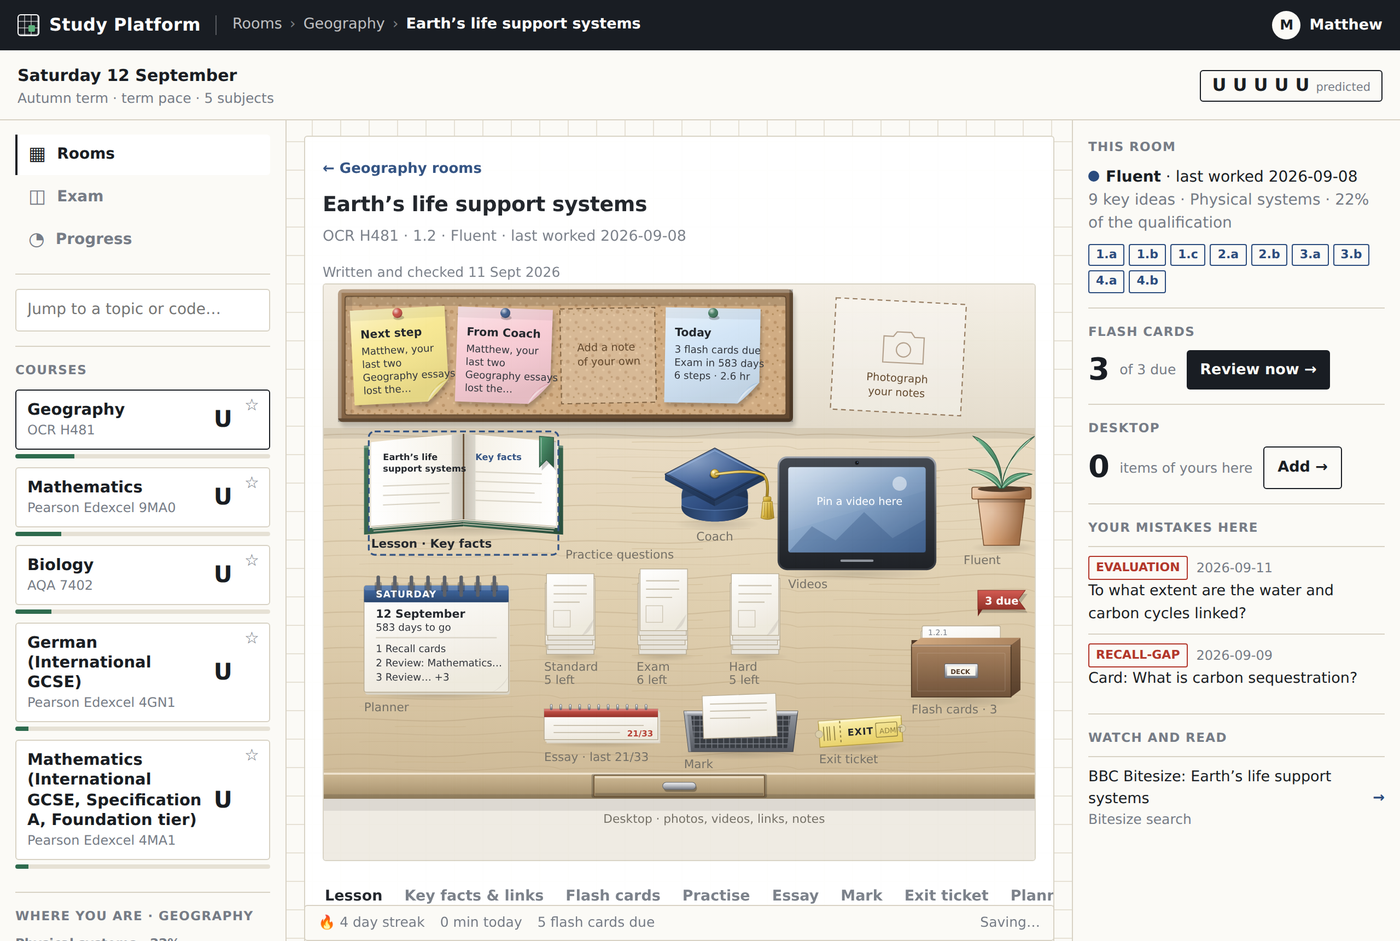
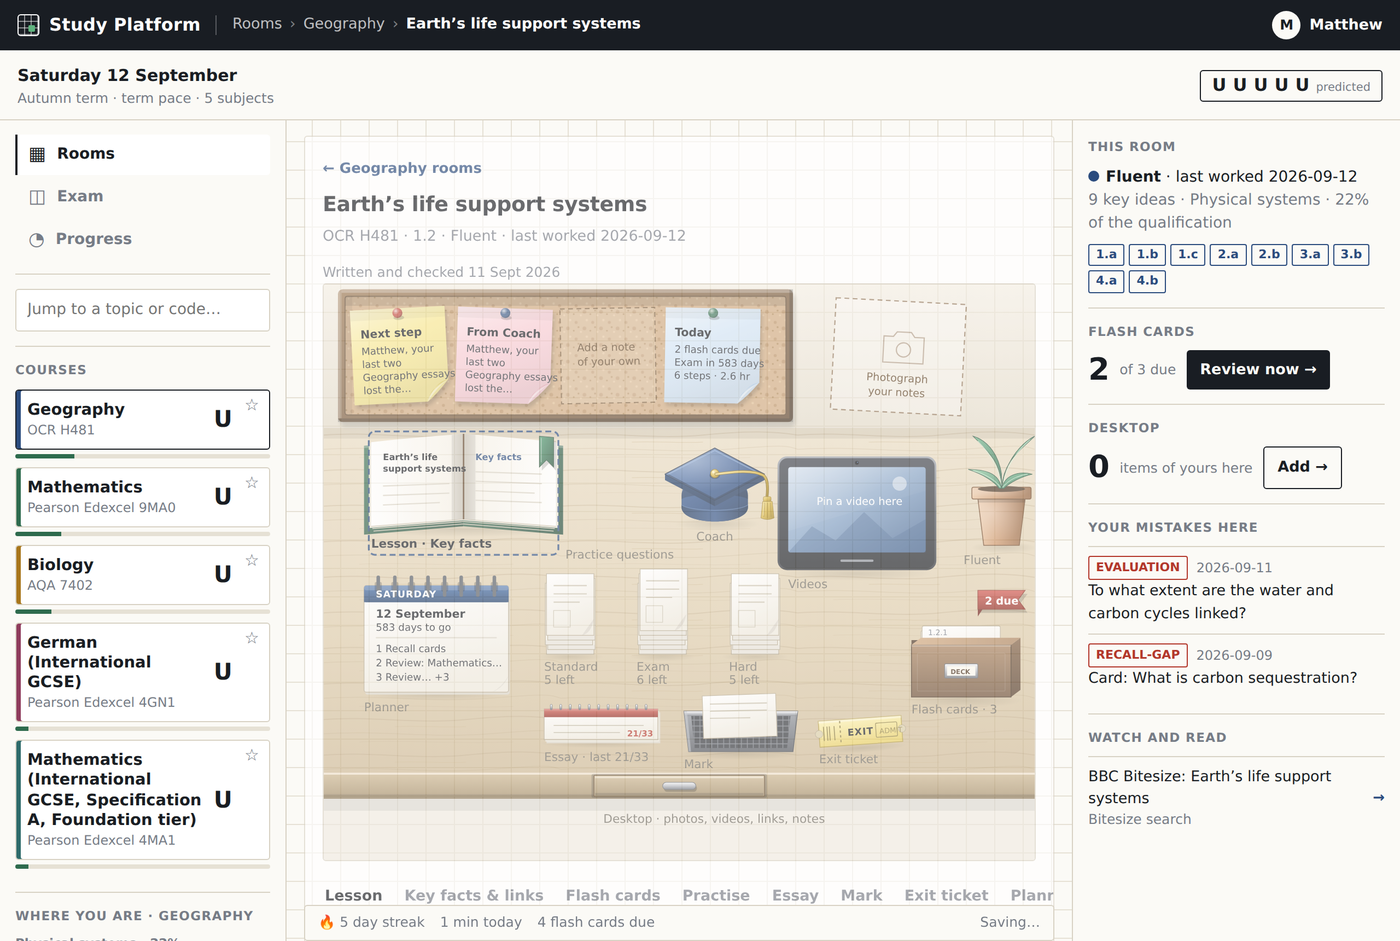
Flash cards are index cards that turn over, colour-coded by subject
Every flash card is now drawn as an index card: a band in the subject's
colour naming the subject, topic and code, ruled lines, the question on
the front and the answer on the back. Tapping the card turns it over in
3D (and back again); Right and Wrong appear once the answer is up. The
room's deck is a grid of mini cards that each turn over. Each subject in
the student's portfolio gets one colour by position, and the course
cards in the left rail carry the same colour as a stripe so the code is
readable at a glance. Tests cover the colour, the turn, the turn-back
animation, the deck grid and the rail stripe; three new proof shots.

Claude-Session: https://claude.ai/code/session_01Mh9bnPxQr2jGMgGjiwAVje

diff --git a/src/template.html b/src/template.html
@@ -75,6 +75,15 @@ let syncState={at:0,serverAt:'',busy:false,err:'',pending:false,timer:null};cons
 let UI={videos:{room:null,items:null,loading:false},subject:null,room:null,station:'lesson',revealed:{},practice:null,essay:null,exit:null,busy:'',err:'',coachBusy:false,coachErr:'',teach:{},setup:{subjects:[]},cards:null,mathsHours:0,drawer:null,jumpQ:'',nudgeBusy:false,desk:{room:null,items:null,loading:false,err:'',unavailable:false,filter:'all',q:'',stage:null,playing:{},busy:'',used:0,quota:0},deskAll:null};
 const NUDGE_STATIONS=['lesson','cards','practise','essay','exit','desktop'];
 const coachName=()=>String(S&&S.setup&&S.setup.coachName||'').trim().slice(0,24)||'Coach';
+/* one colour per subject in the student's portfolio, by position, so the same course is always the same colour */
+const SUBJECT_COLOURS=['#2B4C7E','#2E6B4E','#A8761B','#8E3B5C','#2E6B6B','#B3372B','#5C5B8E','#7A6A2E'];
+function subjectColour(specId){const i=S&&S.setup?S.setup.subjects.findIndex(x=>x.specId===specId):-1;return SUBJECT_COLOURS[(i<0?0:i)%SUBJECT_COLOURS.length];}
+/* an index card that turns over: front is the question, back the answer; `key` is the UI.revealed key that says which face is up */
+function flashCardHtml(c,key,opts={}){const {spec,topic}=nodeTopic(c.node);const up=!!UI.revealed[key];const anim=UI.fcAnim===key?' unflip':'';UI.fcAnim=null;
+  return `<button type="button" class="fc${opts.mini?' mini':''}${up?' flipped':anim}" data-flip="${esc(key)}" style="--sc:${subjectColour(spec.id)}" aria-pressed="${up}" aria-label="${up?'Turn back to the question':'Turn over for the answer'}"><div class="fc-inner">
+   <div class="fc-face fc-front"><div class="fc-band"><span>${esc(spec.subject)}</span><span class="fc-topic">${esc(topic.name)}${c.code?` · ${esc(c.code)}`:''}</span></div><div class="fc-body">${esc(c.front)}</div><div class="fc-hint">Turn over</div></div>
+   <div class="fc-face fc-back"><div class="fc-band"><span>Answer</span><span class="fc-topic">${esc(spec.subject)}</span></div><div class="fc-body">${esc(c.back)}${c.open?'<span class="fc-open">Any sound example scores — these are some of the acceptable answers. Mark yourself right if yours is as specific and as correct.</span>':''}</div><div class="fc-hint">Turn back</div></div>
+  </div></button>`;}
 const DESK_ON=true; /* the drawn desk at the top of every room; false leaves the station strip alone */
 const specById=id=>SPECS[id];
 /* A topic's id is shown as a code only when it is one — "1.2", "P3", "10.1.1", a section letter — and the name does not already
@@ -223,8 +232,8 @@ function renderToday(){const el=document.getElementById('v-today');if(!S)return;
    ${UI.retest?retestHtml():''}${UI.cards?renderCards(due):''}${saveErr?`<p class="err">${esc(saveErr)}</p>`:''}`;renderRails();}
 function renderCards(due){if(!due.length){UI.cards=null;return '<div class="good">Cards cleared for today.</div>';}const c=due[0];const id=Object.keys(S.cards).find(k=>S.cards[k]===c);
   return `<div class="panel"><h2>Recall · ${due.length} due</h2><p class="sub">${esc(nodeTopic(c.node).spec.subject)} — ${esc(nodeTopic(c.node).topic.name)}<span class="cite">${esc(c.code||'')}</span></p>
-   <div class="card">${esc(c.front)}${UI.revealed['card']?`<div class="back">${esc(c.back)}</div>${c.open?'<div class="fine">Any sound example scores — these are some of the acceptable answers. Mark yourself right if yours is as specific and as correct.</div>':''}`:''}</div>
-   ${UI.revealed['card']?`<div class="row"><button class="act ghost small" data-cardres="1" data-card="${esc(id)}">Right</button><button class="act danger small" data-cardres="0" data-card="${esc(id)}">Wrong</button></div>`:`<button class="act" data-reveal="card">Show answer</button>`}</div>`;}
+   ${flashCardHtml(c,'card')}
+   ${UI.revealed['card']?`<div class="row"><button class="act ghost small" data-cardres="1" data-card="${esc(id)}">Right</button><button class="act danger small" data-cardres="0" data-card="${esc(id)}">Wrong</button></div>`:`<button class="act" data-reveal="card">Turn the card over</button>`}</div>`;}
 
 /* ============ ROOMS ============ */
 function renderRooms(){const el=document.getElementById('v-rooms');if(!S)return;renderWhere();if(UI.room)return renderRoom(el);
@@ -266,7 +275,7 @@ function stLesson(spec,topic){const AU=authoredFor(spec.id,topic.id);if(AU&&AU.l
 function stCards(spec,topic){const mine=Object.entries(S.cards).filter(([,c])=>c.node===UI.room);const due=mine.filter(([,c])=>!c.due||c.due<=TODAY);const AU=authoredFor(spec.id,topic.id);const kitCards=AU&&AU.cards&&AU.cards.length&&!(S.kitCards||{})[UI.room]?AU.cards:null;
   return `${kitCards?`<div class="good">This room has ${kitCards.length} checked flash cards, written from the specification and checked.<button class="act small" data-kitcards="1" style="margin-top:10px">Add this room’s ${kitCards.length} checked cards</button></div>`:''}<p class="sub">${mine.length?`${mine.length} flash cards for this room, ${due.length} due today. They are scheduled by spacing: right doubles the gap, wrong resets it.`:'No flash cards yet. They\u2019re generated from the key ideas and the required case studies, then scheduled by spacing.'}</p>
    ${mine.length?`<button class="act" data-cards="1">Review the due cards</button>`:''}<button class="act ${mine.length?'ghost':''}" data-genkind="cards" ${UI.busy?'disabled':''}>${mine.length?'Generate 10 more cards':'Generate flash cards for this room'}</button>
-   ${mine.length?`<p class="sub" style="margin-top:14px">The deck. Answers stay hidden until you ask — try each one in your head first.</p>`:''}${mine.slice(0,40).map(([id,c])=>`<div class="formula"><span class="cite" style="margin:0 6px 0 0">${esc(c.code)}</span>${esc(c.front)} ${UI.revealed['cd'+id]?`<span style="color:var(--pencil)">— ${esc(c.back)}</span>${c.open?'<span class="fine" style="display:block;margin-top:4px">Any sound example scores — these are some of the acceptable answers.</span>':''}`:`<button class="act ghost small" data-reveal="cd${esc(id)}" style="margin:0 0 0 8px;padding:2px 8px;font-size:12px">Show answer</button>`}</div>`).join('')}`;}
+   ${mine.length?`<p class="sub" style="margin-top:14px">The deck. Answers are on the back — try each one in your head, then turn the card over.</p>`:''}${mine.length?`<div class="fc-deck">${mine.slice(0,40).map(([id,c])=>flashCardHtml(c,'cd'+id,{mini:true})).join('')}</div>`:''}`;}
 function pickAuthored(room,stateName,k){const want=stateName==='Secure'?[3,2]:stateName==='Fluent'?[2,3,1]:[1,2];const pool=[];for(const d of want)pool.push(...room.questions.filter(q=>q.d===d));const seen=new Set(),out=[];for(const q of pool){if(!seen.has(q.q)){seen.add(q.q);out.push(q);}if(out.length>=k)break;}return out;}
 function stPractise(spec,topic,n){const AU=authoredFor(spec.id,topic.id);
   if(AU&&!UI.useGenerated){if(!UI.apr||UI.apr.room!==UI.room){UI.apr={room:UI.room,qs:pickAuthored(AU.room,n.state,4),i:0,results:[],hints:{}};}const P=UI.apr;
@@ -544,7 +553,7 @@ function renderRails(){const on=railView();try{if(document.body&&document.body.c
 function courseOrder(){const pinned=S.pinned||{};return S.setup.subjects.slice().sort((a,b)=>(pinned[b.specId]?1:0)-(pinned[a.specId]?1:0));}
 function activeSpec(){return specById((UI.subject&&S.setup.subjects.some(x=>x.specId===UI.subject))?UI.subject:S.setup.subjects[0].specId);}
 function renderRailL(L){const sp=activeSpec();const due=new Set(dueForReview(S,TODAY));
-  const cards=courseOrder().map(sub=>{const c=specById(sub.specId);const p=predictSubject(S,c,sub.options);const pin=!!(S.pinned&&S.pinned[c.id]);return `<div class="ccard${c.id===sp.id?' on':''}"><button class="cmain" data-course="${esc(c.id)}"><b>${esc(c.subject)}</b><small>${esc(c.board)} ${esc(c.code)}</small><span class="cg">${esc(p.grade)}</span></button><div class="bar mini"><i style="width:${p.pct}%"></i></div><button class="pin" data-pin="${esc(c.id)}" aria-pressed="${pin}" title="${pin?'Unpin':'Pin to the top'}">${pin?'★':'☆'}</button></div>`;}).join('');
+  const cards=courseOrder().map(sub=>{const c=specById(sub.specId);const p=predictSubject(S,c,sub.options);const pin=!!(S.pinned&&S.pinned[c.id]);return `<div class="ccard${c.id===sp.id?' on':''}" style="--sc:${subjectColour(c.id)}"><button class="cmain" data-course="${esc(c.id)}"><b>${esc(c.subject)}</b><small>${esc(c.board)} ${esc(c.code)}</small><span class="cg">${esc(p.grade)}</span></button><div class="bar mini"><i style="width:${p.pct}%"></i></div><button class="pin" data-pin="${esc(c.id)}" aria-pressed="${pin}" title="${pin?'Unpin':'Pin to the top'}">${pin?'★':'☆'}</button></div>`;}).join('');
   const nodes=Object.entries(S.nodes).filter(([,n])=>n.spec===sp.id);
   const tree=sp.components.map(c=>{const mine=nodes.filter(([,n])=>{const t=sp.topics.find(x=>x.id===n.topic);return t&&t.component===c.id;});if(!mine.length)return '';return `<div class="comp"><div class="cname">${esc(c.name)} · ${c.weight}%</div>${mine.map(([id,n])=>{const t=sp.topics.find(x=>x.id===n.topic);const ki=kitInfo(sp.id,t.id);return `<button class="tnode${UI.room===id?' cur':''}" data-open="${esc(id)}" data-st="lesson"><i class="dot" data-s="${n.state}"${due.has(id)?' data-due="1"':''}></i><span>${topicCode(t)?`<small>${esc(topicCode(t))}</small> `:''}${esc(t.name)}${ki&&!ki.at?'<i class="pen" title="Being written">✎</i>':''}</span></button>`;}).join('')}</div>`;}).join('');
   L.innerHTML=`${navHtml('side')}<div class="rblock"><input id="jump" placeholder="Jump to a topic or code…" autocomplete="off" value="${esc(UI.jumpQ||'')}"><div id="jumpOut">${jumpHtml()}</div></div><div class="rblock"><h4>Courses</h4>${cards}</div><div class="rblock"><h4>Where you are · ${esc(sp.subject)}</h4><div class="tree">${tree}</div><div class="legend" style="margin-top:10px"><span><i class="dot" data-s="Unassessed"></i>New</span><span><i class="dot" data-s="Learning"></i>Learning</span><span><i class="dot" data-s="Fluent"></i>Fluent</span><span><i class="dot" data-s="Secure"></i>Secure</span><span><i class="dot" data-due="1"></i>Due</span></div></div>
@@ -953,6 +962,7 @@ document.addEventListener('click',async e=>{let t=e.target;
   if(t.id==='rtStop'){UI.retest=null;renderToday();return;}
   if(t.id==='backRooms'){UI.room=null;renderRooms();return;}
   const stn=t.closest('[data-station]');if(stn){openStation(stn.dataset.station,stn.tagName!=='BUTTON');return;}
+  const fl=t.closest('[data-flip]');if(fl){const k=fl.dataset.flip;const was=!!UI.revealed[k];UI.revealed[k]=!was;if(was)UI.fcAnim=k;if(k==='card')renderToday();else renderRooms();return;}
   const rv=t.closest('[data-reveal]');if(rv){UI.revealed[rv.dataset.reveal]=true;renderAll();return;}
   const lx=t.closest('[data-lxrev]');if(lx){const k='lx'+lx.dataset.lxrev;const AUx=authoredFor(nodeTopic(UI.room).spec.id,nodeTopic(UI.room).topic.id);const ex=AUx&&AUx.lesson&&AUx.lesson.examples[+lx.dataset.lxrev];UI.revealed[k]=Math.max(UI.revealed[k]||0,ex&&!ex.setup?1:0)+1;renderRooms();return;}
   const ax=t.closest('[data-axrev]');if(ax){const k='ax'+ax.dataset.axrev;const AUx=authoredFor(nodeTopic(UI.room).spec.id,nodeTopic(UI.room).topic.id);const ex=AUx&&AUx.room&&AUx.room.examples[+ax.dataset.axrev];UI.revealed[k]=Math.max(UI.revealed[k]||0,ex&&!ex.setup?1:0)+1;renderRooms();return;}

diff --git a/tests/app.test.js b/tests/app.test.js
@@ -143,6 +143,14 @@ const click=async s=>L.click({target:T(s)});const change=async s=>L.change({targ
  await click({dataset:{cards:'1'}});ok('A6 card review shown',/Recall · 10 due/.test(reg['v-today'].innerHTML));
  const cid=Object.keys(G.S.cards)[0];await click({dataset:{reveal:'card'}});await click({dataset:{cardres:'0',card:cid}});ok('A6 wrong card reset and logged',G.S.cards[cid].ease===1&&G.S.errors[0].mode==='RECALL-GAP');
  await click({dataset:{reveal:'card'}});const c2=Object.keys(G.S.cards)[1];await click({dataset:{cardres:'1',card:c2}});ok('A6 right card doubles',G.S.cards[c2].ease===2);
+ const first=G.S.setup.subjects[0].specId;(()=>{G.UI.cards=true;G.UI.revealed.card=false;G.renderToday();const V=reg['v-today'].innerHTML;const geo=G.subjectColour('OCR-H481');
+  ok('F1 the review card is an index card in its subject\u2019s colour, question up',/class="fc" data-flip="card" style="--sc:#[0-9A-F]{6}"/.test(V)&&V.includes('style="--sc:'+geo+'"')&&/fc-front/.test(V)&&/fc-back/.test(V)&&!/class="fc flipped"/.test(V)&&!/data-cardres/.test(V),V.slice(0,300));
+  ok('F1b subject colours follow the portfolio order and differ between subjects',G.subjectColour(first)==='#2B4C7E'&&G.subjectColour(G.S.setup.subjects[1].specId)==='#2E6B4E'&&G.subjectColour(first)!==G.subjectColour(G.S.setup.subjects[1].specId));})();
+ await click({dataset:{flip:'card'}});ok('F2 tapping the card turns it over: answer face up, Right and Wrong offered',G.UI.revealed.card===true&&/class="fc flipped"/.test(reg['v-today'].innerHTML)&&/data-cardres="1"/.test(reg['v-today'].innerHTML));
+ await click({dataset:{flip:'card'}});ok('F3 tapping again turns it back, animated',G.UI.revealed.card===false&&/class="fc unflip"/.test(reg['v-today'].innerHTML)&&!/data-cardres/.test(reg['v-today'].innerHTML));
+ G.renderToday();ok('F3b the turn-back animation runs once',/class="fc" data-flip/.test(reg['v-today'].innerHTML));
+ ok('F4 the course cards in the left rail carry their subject colour stripe',reg['rail-l'].innerHTML.includes('style="--sc:'+G.subjectColour(first)+'"><button class="cmain"'),reg['rail-l'].innerHTML.slice(0,200));
+ G.UI.cards=null;G.renderToday();
  /* practise */
  reply=()=>({content:[{type:'text',text:JSON.stringify({questions:[1,2,3].map(i=>({q:'Explain Q'+i,command:'Explain',marks:8,indicative:['i1','i2'],codes:['1.c']}))})}]});
  G.openRoom(geoRoom,'practise');await click({dataset:{usegen:'1'}});/* 1.2 ships a checked kit; A7 tests the generated set */await click({dataset:{genkind:'questions'}});await sleep(30);
@@ -269,7 +277,7 @@ const click=async s=>L.click({target:T(s)});const change=async s=>L.change({targ
  ok('X2c a worked example shows its setup at once and a cue before each reveal',(()=>{G.UI.station='lesson';G.UI.revealed={};G.renderRooms();const V=reg['v-rooms'].innerHTML;return /class="setup">A student is given the full situation/.test(V)&&/<b>Predict:<\/b> What is the total of the three values\?/.test(V)&&!/The three values are 4, 8 and 12, so the total is 24\.<\/div>/.test(V.replace(/class="stepline hid">[^<]*<\/div>/g,''));})());
  await click({dataset:{lxrev:'0'}});ok('X2c revealing shows the first move and asks the next cue',/stepline ">The three values are 4, 8 and 12/.test(reg['v-rooms'].innerHTML)&&/<b>Predict:<\/b> How do you turn the total into a mean\?/.test(reg['v-rooms'].innerHTML));
  ok('X2c a kit without setups shows its first line at once',(()=>{const AU=G.AUTHORED;const K=G.KITS['OCR-H481|1.2'];const e=K.lesson.examples[1];const saved={setup:e.setup,cues:e.cues};delete e.setup;delete e.cues;G.UI.revealed={};G.renderRooms();const V=reg['v-rooms'].innerHTML;Object.assign(e,saved);return /stepline ">The three values are 4, 8 and 12/.test(V)&&/<b>Predict:<\/b> what the next line will be/.test(V);})());
- ok('X2b the flash-card list keeps answers hidden until asked',(()=>{G.UI.station='cards';G.renderRooms();const V=reg['v-rooms'].innerHTML;const id=Object.keys(G.S.cards).find(k=>G.S.cards[k].node==='OCR-H481|1.2');const c=G.S.cards[id];return /Show answer/.test(V)&&!V.includes('— '+c.back.slice(0,20))&&(()=>{G.UI.revealed['cd'+id]=true;G.renderRooms();return reg['v-rooms'].innerHTML.includes('— '+c.back.slice(0,20));})();})());G.UI.station='practise';G.renderRooms();
+ ok('X2b the deck is a grid of index cards, question up until turned',(()=>{G.UI.station='cards';G.renderRooms();const V=reg['v-rooms'].innerHTML;const id=Object.keys(G.S.cards).find(k=>G.S.cards[k].node==='OCR-H481|1.2');const re=x=>new RegExp('class="fc mini([^"]*)" data-flip="cd'+id.replace(/[|.]/g,'\\$&')+'"').exec(x);const m=re(V);return /class="fc-deck"/.test(V)&&m&&!/flipped/.test(m[1])&&(()=>{G.UI.revealed['cd'+id]=true;G.renderRooms();const m2=re(reg['v-rooms'].innerHTML);return m2&&/flipped/.test(m2[1]);})();})());G.UI.station='practise';G.renderRooms();
  ok('X2d an open card says any sound example scores',(()=>{const id=Object.keys(G.S.cards).find(k=>G.S.cards[k].node==='OCR-H481|1.2');G.S.cards[id].open=true;G.UI.station='cards';G.UI.revealed['cd'+id]=true;G.renderRooms();const V=reg['v-rooms'].innerHTML;delete G.S.cards[id].open;G.UI.station='practise';G.renderRooms();return /Any sound example scores/.test(V);})());
  ok('X2 the open station is marked on the desk itself',/data-station="practise" aria-label="[^"]*" aria-pressed="true"[\s\S]*?class="dsel"/.test(svg())&&(svg().match(/aria-pressed="true"/g)||[]).length===3&&(svg().match(/class="dsel"/g)||[]).length===3,String((svg().match(/aria-pressed="true"/g)||[]).length));
  L.keydown({key:'Enter',target:T({className:'dobj',dataset:{station:'cards'}}),preventDefault(){}});ok('X2 Enter on a focused object opens it',G.UI.station==='cards');

diff --git a/scripts/visual-proof.js b/scripts/visual-proof.js
@@ -150,10 +150,31 @@ const server = http.createServer((req, res) => {
   must(/Next step/.test(await page.locator('#rail-r').textContent()) && /Flash cards due/.test(await page.locator('#rail-r').textContent()) && (await page.locator('#rail-r .ring').count()) === 5, 'right rail on Today: next step, cards due, five progress rings');
   must(/day streak/.test(await page.locator('#status').textContent()) && (await page.locator('#status').isVisible()), 'status strip visible with the streak');
   await snap(page, '6-wide-today', 'Wide screen: left rail (nav, quick-jump, course switcher, topic tree with status dots), centre (today’s session), right rail (tutor-written next step, cards due, progress rings, streak), status strip');
+  await page.click('#rail-r [data-cards]');
+  await page.waitForSelector('#v-today .fc', { timeout: 5000 });
+  await page.locator('#v-today .fc').scrollIntoViewIfNeeded();
+  must((await page.locator('#v-today .fc.flipped').count()) === 0 && /Turn over/.test(await page.locator('#v-today .fc').textContent()), 'flash card review: an index card, question up');
+  const band = await page.locator('#v-today .fc-front .fc-band').evaluate(e => getComputedStyle(e).backgroundColor);
+  const stripe = await page.locator('#rail-l .ccard .cmain').first().evaluate(e => getComputedStyle(e).boxShadow);
+  must(band === 'rgb(43, 76, 126)' && /rgb\(43, 76, 126\)/.test(stripe), `the card wears Geography's colour, the same as the course stripe in the rail (band ${band})`);
+  await snap(page, '20-flash-card-front', 'Flash card review: an index card in the subject’s colour, question up, matching the course’s colour stripe in the left rail');
+  await page.click('#v-today .fc');
+  await page.waitForSelector('#v-today .fc.flipped', { timeout: 5000 });
+  await page.waitForTimeout(700);
+  must((await page.locator('#v-today [data-cardres="1"]').count()) === 1 && (await page.locator('#v-today [data-cardres="0"]').count()) === 1, 'turned over: the answer face is up and Right / Wrong are offered');
+  await snap(page, '21-flash-card-back', 'The same card turned over: the answer on the back, Right and Wrong to mark yourself');
+  await page.click('#v-today [data-cardres="1"]');
   await page.click('#rail-l [data-open="OCR-H481|1.2"]');
   await page.waitForFunction(() => /This room/.test(document.querySelector('#rail-r').textContent), null, { timeout: 10000 });
   must((await page.locator('#rail-l .tnode.cur').count()) === 1 && /Watch and read/.test(await page.locator('#rail-r').textContent()) && (await page.locator('#rail-r a.link').count()) >= 1, 'in a room: the tree marks where you are; the right rail shows this room, its cards, mistakes and links');
   await snap(page, '7-wide-room', 'Inside a room: the tree marks the current topic; the right rail is contextual — state, key-idea codes, cards due here, your mistakes here, watch and read');
+  await page.click('#v-rooms .stations [data-station="cards"]');
+  await page.waitForSelector('#v-rooms .fc-deck .fc.mini', { timeout: 5000 });
+  must((await page.locator('#v-rooms .fc-deck .fc.mini').count()) >= 3, 'the room’s deck is a grid of mini index cards');
+  await page.locator('#v-rooms .fc-deck .fc.mini').nth(1).click();
+  await page.waitForSelector('#v-rooms .fc-deck .fc.mini.flipped', { timeout: 5000 });
+  await page.waitForTimeout(700);
+  await snap(page, '22-room-deck', 'The room’s flash-card deck: mini index cards in the subject’s colour, one turned over');
   await page.fill('#jump', 'stationary');
   await page.waitForSelector('#jumpOut .tnode', { timeout: 5000 });
   must(/Mathematics/.test(await page.locator('#jumpOut').textContent()), 'quick-jump finds a maths topic by a key-idea word');

diff --git a/src/styles.css b/src/styles.css
@@ -148,7 +148,27 @@ body.three{padding-bottom:108px}
 .rblock p{margin:0;font-size:14px;line-height:1.5}
 .rblock .row{margin-top:8px}.rblock .row .act.small{margin:0;flex:0 1 auto}
 .fine{display:block;font-size:12.5px;color:var(--pencil);margin-top:4px;line-height:1.4}
-.ccard{position:relative;margin-bottom:8px}
+.ccard{position:relative;margin-bottom:8px;--sc:var(--ink)}
+.ccard .cmain{box-shadow:inset 4px 0 0 var(--sc)}
+/* flash cards: an index card that turns over */
+.fc{display:block;width:100%;padding:0;margin:10px 0 0;border:0;background:none;font:inherit;color:var(--ink);text-align:left;cursor:pointer;perspective:1200px;--sc:var(--blue)}
+.fc-inner{display:grid;transform-style:preserve-3d;transition:transform .55s cubic-bezier(.4,.1,.2,1)}
+.fc-face{grid-area:1/1;display:flex;flex-direction:column;min-height:230px;background:#fff;border:1.5px solid var(--rule);border-radius:7px;box-shadow:0 1px 0 var(--rule),0 6px 14px rgba(25,29,35,.08);overflow:hidden;-webkit-backface-visibility:hidden;backface-visibility:hidden}
+.fc-back{transform:rotateY(180deg);background:color-mix(in srgb,var(--sc) 7%,#fff)}
+.fc.flipped .fc-inner{transform:rotateY(180deg);animation:fcflip .55s cubic-bezier(.4,.1,.2,1)}
+.fc.unflip .fc-inner{animation:fcunflip .55s cubic-bezier(.4,.1,.2,1)}
+@keyframes fcflip{from{transform:rotateY(0)}to{transform:rotateY(180deg)}}
+@keyframes fcunflip{from{transform:rotateY(180deg)}to{transform:rotateY(0)}}
+.fc-band{display:flex;justify-content:space-between;gap:10px;align-items:baseline;padding:8px 14px;background:var(--sc);color:#fff;font-size:12px;font-weight:700;letter-spacing:.04em;text-transform:uppercase}
+.fc-band .fc-topic{font-weight:500;letter-spacing:0;text-transform:none;opacity:.9;white-space:nowrap;overflow:hidden;text-overflow:ellipsis;min-width:0}
+.fc-body{flex:1;display:flex;flex-direction:column;justify-content:center;padding:18px 20px;font-size:18px;line-height:28px;background-image:repeating-linear-gradient(transparent 0 27px,color-mix(in srgb,var(--sc) 22%,transparent) 27px 28px);background-origin:content-box;background-attachment:local}
+.fc-back .fc-body{font-size:17px;font-weight:600;color:color-mix(in srgb,var(--sc) 70%,var(--ink))}
+.fc-open{display:block;margin-top:10px;font-size:12.5px;font-weight:400;color:var(--pencil);line-height:1.4}
+.fc-hint{padding:6px 14px 8px;font-size:11.5px;color:var(--pencil);text-align:right}
+.fc:focus-visible{outline:none}.fc:focus-visible .fc-face{outline:2.5px solid var(--blue);outline-offset:2px}
+.fc.mini{margin:0}.fc.mini .fc-face{min-height:150px;border-radius:5px}.fc.mini .fc-band{padding:5px 10px;font-size:10.5px}.fc.mini .fc-body{padding:12px 14px;font-size:14.5px;line-height:24px;background-image:repeating-linear-gradient(transparent 0 23px,color-mix(in srgb,var(--sc) 22%,transparent) 23px 24px)}.fc.mini .fc-back .fc-body{font-size:14px}.fc.mini .fc-hint{padding:4px 10px 6px;font-size:10.5px}
+.fc-deck{display:grid;grid-template-columns:repeat(auto-fill,minmax(230px,1fr));gap:12px;margin-top:8px}
+@media (prefers-reduced-motion:reduce){.fc-inner,.fc.flipped .fc-inner,.fc.unflip .fc-inner{transition:none;animation:none}}
 .ccard .cmain{width:100%;text-align:left;background:#fff;border:1.5px solid var(--rule);border-radius:3px;padding:9px 34px 8px 10px;font:inherit;cursor:pointer;color:var(--ink);display:grid;grid-template-columns:1fr auto;align-items:center;column-gap:8px}
 .ccard .cmain b{font-size:14.5px;display:block;line-height:1.25}.ccard .cmain small{color:var(--pencil);font-size:12px;grid-column:1}.ccard .cmain .cg{grid-column:2;grid-row:1/3;font-size:21px;font-weight:700;letter-spacing:-.02em}
 .ccard.on .cmain{border-color:var(--ink)}

diff --git a/docs/proof/README.md b/docs/proof/README.md
@@ -38,11 +38,29 @@ Wide screen: left rail (nav, quick-jump, course switcher, topic tree with status
 
 ![6-wide-today](6-wide-today.png)
 
+## 20-flash-card-front
+
+Flash card review: an index card in the subject’s colour, question up, matching the course’s colour stripe in the left rail
+
+![20-flash-card-front](20-flash-card-front.png)
+
+## 21-flash-card-back
+
+The same card turned over: the answer on the back, Right and Wrong to mark yourself
+
+![21-flash-card-back](21-flash-card-back.png)
+
 ## 7-wide-room
 
 Inside a room: the tree marks the current topic; the right rail is contextual — state, key-idea codes, cards due here, your mistakes here, watch and read
 
 ![7-wide-room](7-wide-room.png)
+
+## 22-room-deck
+
+The room’s flash-card deck: mini index cards in the subject’s colour, one turned over
+
+![22-room-deck](22-room-deck.png)
 
 ## 10-ipad-room
 
